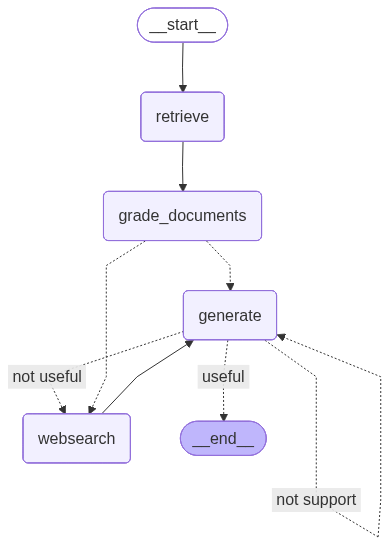
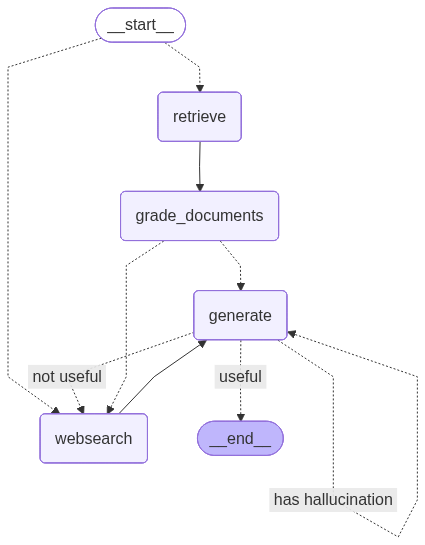
Adaptive RAG

diff --git a/graph/graph.py b/graph/graph.py
@@ -5,13 +5,28 @@ from langgraph.graph import END, StateGraph
 from graph.chains.answer_grader import GradeAnswer, answer_grader
 from graph.chains.hallucination_grader import (GradeHallucinations,
                                                hallucination_grader)
+from graph.chains.router import QuestionRouter, router
 from graph.consts import GENERATE, GRADE_DOCUMENTS, RETRIEVE, WEBSEARCH
 from graph.nodes import generate, grade_documents, retrieve, web_search
 from graph.state import GraphState
 
-NOT_SUPPORTED = "not support"
+NOT_SUPPORTED = "has hallucination"
 NOT_USEFUL = "not useful"
 USERFUL = "useful"
+
+
+def router_question(state: GraphState) -> str:
+    """对用户的问题进行路由选择，已确定下一步执行的节点"""
+    print("---ROUTER QUESTION---")
+    question = state["question"]
+
+    route: QuestionRouter = router.invoke({"question": question})
+    if route.next_node == WEBSEARCH:
+        print("---ROUTE QUESTION TO WEB SEARCH---")
+        return WEBSEARCH
+    else:
+        print("---ROUTE QUESTION TO RAG---")
+        return RETRIEVE
 
 
 def grade_generation_grounded_in_documents_and_question(state: GraphState) -> str:
@@ -64,7 +79,9 @@ def should_web_search(state: GraphState) -> Literal[WEBSEARCH, GENERATE]:
         return GENERATE
 
 
-build.set_entry_point(RETRIEVE)
+build.set_conditional_entry_point(
+    router_question, {WEBSEARCH: WEBSEARCH, RETRIEVE: RETRIEVE}
+)
 build.add_edge(RETRIEVE, GRADE_DOCUMENTS)
 build.add_conditional_edges(
     GRADE_DOCUMENTS, should_web_search, {WEBSEARCH: WEBSEARCH, GENERATE: GENERATE}

diff --git a/graph/chains/router.py b/graph/chains/router.py
@@ -1,0 +1,32 @@
+from typing import Literal
+
+from langchain_core.output_parsers import PydanticOutputParser
+from langchain_core.prompts import ChatPromptTemplate
+from pydantic import BaseModel, Field
+
+from graph.consts import RETRIEVE, WEBSEARCH
+from graph.llm import chat_llm
+
+
+class QuestionRouter(BaseModel):
+    """对用户的问题，进行路由判断，以选择到最相关的下一步节点"""
+
+    next_node: Literal[WEBSEARCH, RETRIEVE] = Field(
+        description="下一步节点的名称, 只能是: websearch 或者 retrieve"
+    )
+
+
+pydantic_parser = PydanticOutputParser(pydantic_object=QuestionRouter)
+
+system = """
+你是一个路由选择器，擅长基于用户的问题，判断下一步应该选择哪个节点进行执行后续逻辑。\n\n
+当用户的问题，是 agents, prompt engineering, 和 adversarial attacks(对抗性攻击)这些领域时，下一步走 retrieve 去查询向量库。
+否则，其他情况时，下一步走 websearch 去联网搜索
+你的回答应满足如下格式: {instruction}
+"""
+
+prompt = ChatPromptTemplate.from_messages(
+    [("system", system), ("human", "用户的问题：{question}")]
+).partial(instruction=pydantic_parser.get_format_instructions())
+
+router = prompt | chat_llm | pydantic_parser

diff --git a/graph/chains/tests/test_chains.py b/graph/chains/tests/test_chains.py
@@ -8,6 +8,8 @@ from graph.chains.generation import generation_chain
 from graph.chains.hallucination_grader import (GradeHallucinations,
                                                hallucination_grader)
 from graph.chains.retrieval_grader import GradeDocuments, retrieval_grader
+from graph.chains.router import QuestionRouter, router
+from graph.consts import RETRIEVE, WEBSEARCH
 from graph.nodes.retriever import retriever
 
 
@@ -81,3 +83,21 @@ def test_answer_grader_answer_yes() -> None:
         }
     )
     assert res.binary_score
+
+
+@traceable(name="test_router_answer_retrieve")
+def test_router_answer_retrieve() -> None:
+    question = "what's is prompt engineering?"
+
+    route: QuestionRouter = router.invoke({"question": question})
+
+    assert route.next_node == RETRIEVE
+
+
+@traceable(name="test_router_answer_websearch")
+def test_router_answer_websearch() -> None:
+    question = "What's the weather in Nanjing today?"
+
+    route: QuestionRouter = router.invoke({"question": question})
+
+    assert route.next_node == WEBSEARCH

diff --git a/graph/chains/hallucination_grader.py b/graph/chains/hallucination_grader.py
@@ -1,8 +1,8 @@
+from langchain_core.output_parsers import PydanticOutputParser
 from langchain_core.prompts import ChatPromptTemplate
 from pydantic import BaseModel, Field
 
 from graph.llm import chat_llm
-from langchain_core.output_parsers import PydanticOutputParser
 
 
 class GradeHallucinations(BaseModel):
@@ -11,6 +11,7 @@ class GradeHallucinations(BaseModel):
     binary_score: bool = Field(
         description="Answer is grounded in the facts, 'True' or 'False'"
     )
+
 
 pydantic_parser = PydanticOutputParser(pydantic_object=GradeHallucinations)
 

diff --git a/graph/nodes/web_search.py b/graph/nodes/web_search.py
@@ -17,7 +17,7 @@ def web_search(state: GraphState) -> Dict[str, Any]:
     """
     print("---WEB SEARCH---")
     question = state["question"]
-    documents = state["documents"]
+    documents = state.get("documents", None)
     is_web_search = state.get("web_search", False)
 
     res = tavily_search.invoke({"query": question})
